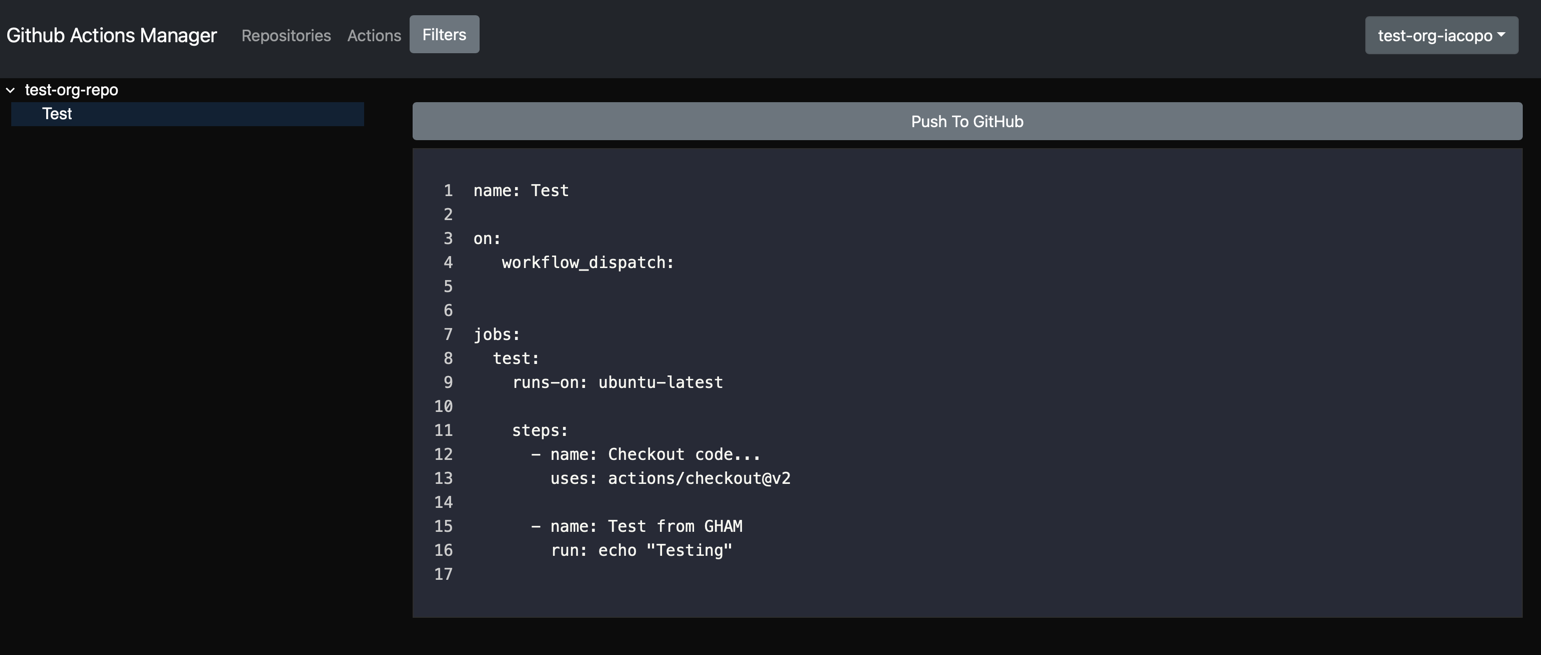
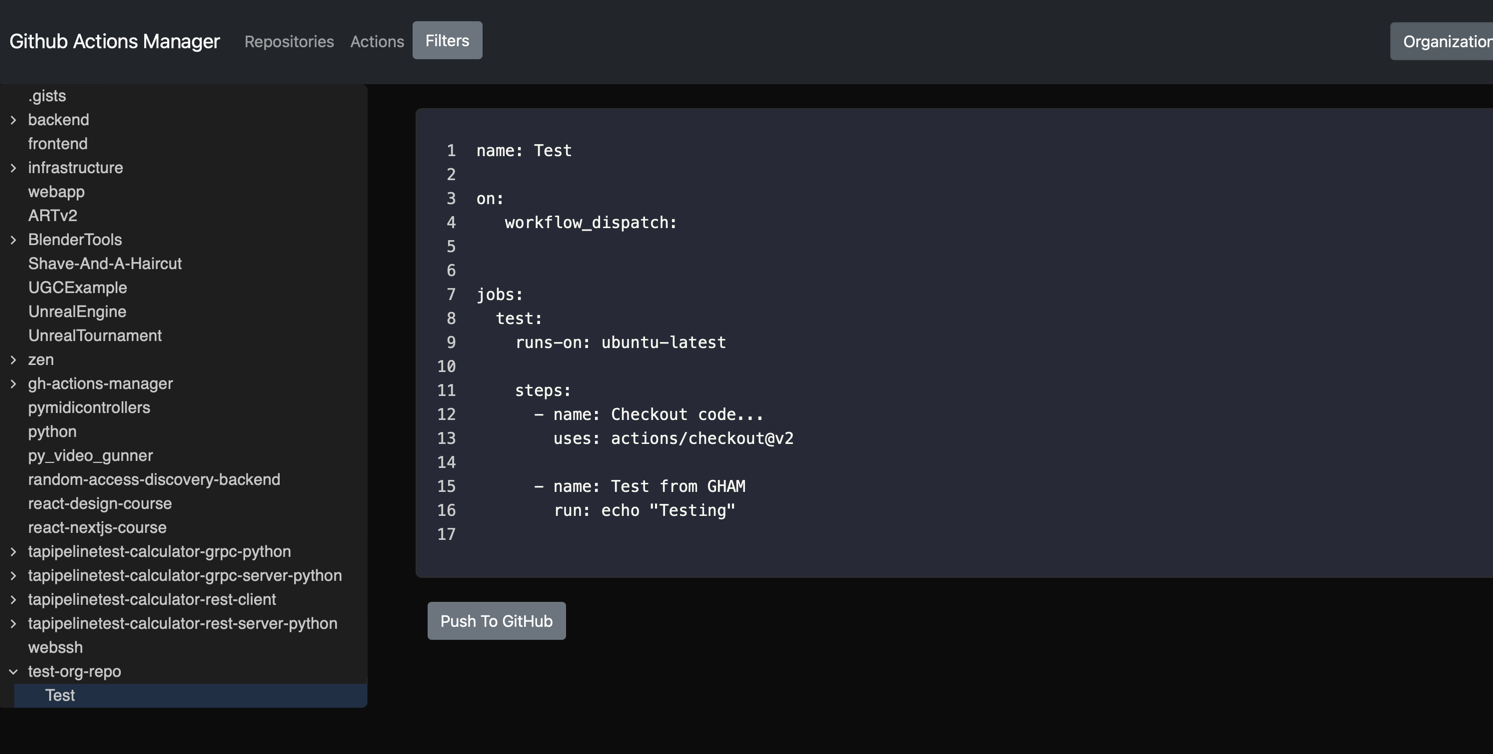
Repository tree style tweak and updated screenshots

Changed region(s): [[0.0, 0.0, 1.0, 0.9466]]

diff --git a/src/components/Repository/RepositoriesTreeView.js b/src/components/Repository/RepositoriesTreeView.js
@@ -1,3 +1,5 @@
+import '../../resources/styles/repositories-tree.css';
+
 import {useSelector} from "react-redux";
 import useRepositories from "../../hooks/useRepositories";
 import ExpandMoreIcon from "@mui/icons-material/ExpandMore";
@@ -20,7 +22,7 @@ export default function RepositoriesTreeView(){
     return(
 
         <TreeView
-            className="text-white"
+            className="repositories-tree"
             aria-label="file system navigator"
             defaultCollapseIcon={<ExpandMoreIcon />}
             defaultExpandIcon={<ChevronRightIcon />}

diff --git a/src/resources/styles/repositories-tree.css b/src/resources/styles/repositories-tree.css
@@ -1,0 +1,7 @@
+.repositories-tree {
+  background-color: #1e1e1e;
+  padding: 10px;
+  padding-bottom: 100%;
+  border-radius: 6px;
+  color: #c7c7c7;
+}
